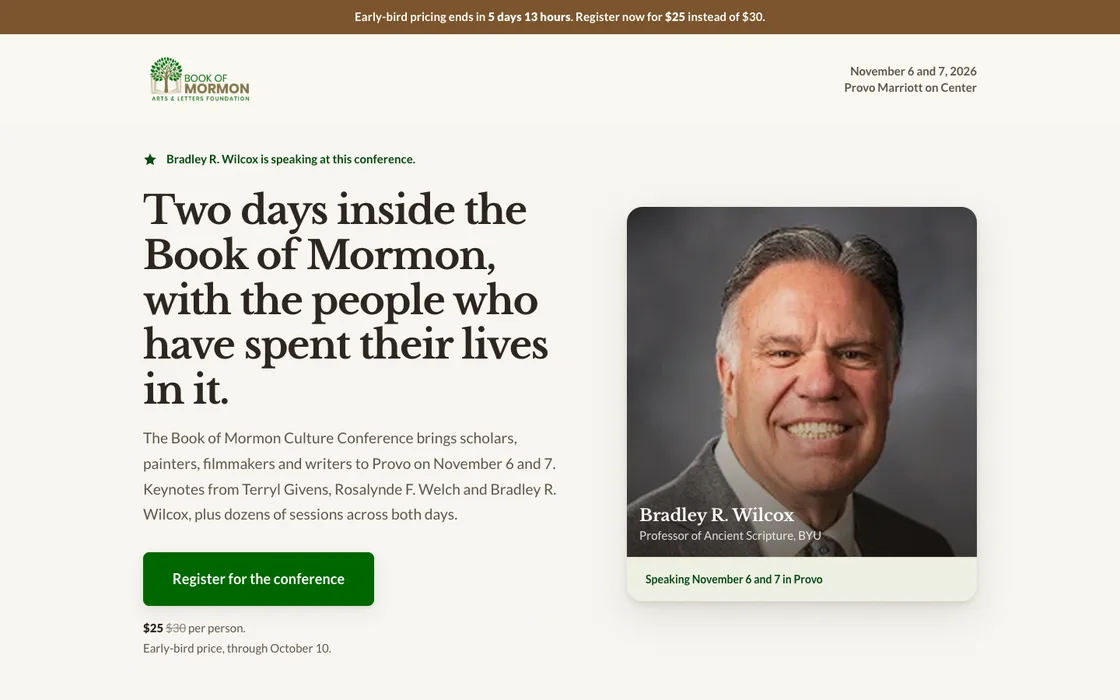
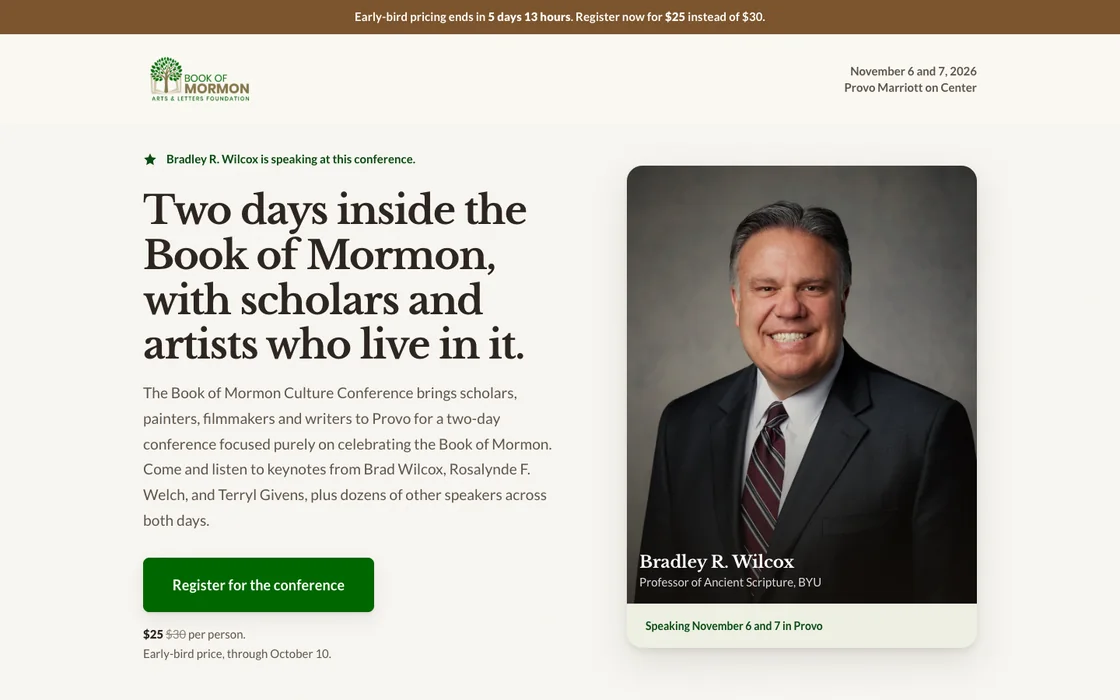
Brian's copy pass on page A, plus the real Wilcox portrait
New headline and intro, and the three objection blocks rewritten: PhD not
required, two whole days for thirty dollars, bring your friends and family.
The group discount now carries that third block in place of the refund terms.

Swaps the 400px headshot pulled from bomal.org for the supplied 1638x2048
portrait, resized to 1000px webp. The hero cards move to 4:5 to suit it, and
page B uses the same photo so one person does not appear in two different
pictures across the pair.

Changed region(s): [[0.5312, 0.21, 0.875, 0.93], [0.125, 0.39, 0.5, 0.75], [0.125, 0.78, 0.3438, 0.96]]

diff --git a/direct.html b/direct.html
@@ -35,7 +35,7 @@
 
   /* Hero portrait card */
   .hero-card{ border-radius:var(--rad-xl); overflow:hidden; box-shadow:var(--sh-3); background:var(--card); }
-  .hero-card .portrait{ aspect-ratio:1/1; }
+  .hero-card .portrait{ aspect-ratio:4/5; }
   .hero-card .portrait-cap h3{ color:#fff; font-size:1.35rem; }
   .hero-card .portrait-cap p{ font-size:.9375rem; color:rgba(255,255,255,.85); margin-top:.15rem; line-height:1.45; }
   .hero-card .speaking{ padding:var(--s3) var(--s4); font-size:.875rem; font-weight:700;
@@ -94,12 +94,13 @@
           <span><span data-sp="name">Your speaker</span> is speaking at this conference.</span>
         </p>
 
-        <h1>Two days inside the Book of Mormon, with the people who have spent their lives in it.</h1>
+        <h1>Two days inside the Book of Mormon, with scholars and artists who live in it.</h1>
 
         <p class="lede measure">
           The Book of Mormon Culture Conference brings scholars, painters, filmmakers and writers
-          to Provo on November 6 and 7. Keynotes from Terryl Givens, Rosalynde F. Welch and
-          Bradley R. Wilcox, plus dozens of sessions across both days.
+          to Provo for a two-day conference focused purely on celebrating the Book of Mormon.
+          Come and listen to keynotes from Brad Wilcox, Rosalynde F. Welch, and Terryl Givens,
+          plus dozens of other speakers across both days.
         </p>
 
         <div class="cta-row">
@@ -115,7 +116,7 @@
 
       <div class="hero-card">
         <div class="portrait">
-          <img data-sp="img" src="brand_assets/speakers/wilcox.webp" alt="Bradley R. Wilcox" width="400" height="400">
+          <img data-sp="img" src="brand_assets/speakers/wilcox-portrait.webp" alt="Bradley R. Wilcox" width="1000" height="1250">
           <div class="portrait-cap">
             <h3 data-sp="name">Bradley R. Wilcox</h3>
             <p data-sp="role">Professor of Ancient Scripture, BYU</p>
@@ -180,16 +181,16 @@
       </div>
       <div class="objections">
       <div class="objection">
-        <h3>You do not need a background in this</h3>
-        <p>Sessions are built for readers, not specialists. Come with the Book of Mormon you already know.</p>
+        <h3>PhD not required</h3>
+        <p>This conference is meant for people who love the Book of Mormon, not people who know every single thing about it. Come with the Book of Mormon you already know and love.</p>
       </div>
       <div class="objection">
-        <h3>Thirty dollars covers both days</h3>
-        <p>One registration, Friday and Saturday, every session. Groups get an automatic ten percent off.</p>
+        <h3>Two whole days. Just thirty dollars.</h3>
+        <p>A spiritual feast from some of the most unique testimonies.</p>
       </div>
       <div class="objection">
-        <h3>Plans change, and that is fine</h3>
-        <p>Cancel through October 15 for a refund less a five percent processing fee. After that, eighty percent back.</p>
+        <h3>Bring your friends and family!</h3>
+        <p>Register as a group and get an automatic ten percent off.</p>
       </div>
       </div>
     </div>

diff --git a/authority.html b/authority.html
@@ -29,7 +29,7 @@
     background:rgba(125,151,94,.14); border-radius:999px; padding:.45rem 1rem; }
 
   .hero-card{ border-radius:var(--rad-xl); overflow:hidden; box-shadow:var(--sh-3); background:var(--card); }
-  .hero-card .portrait{ aspect-ratio:1/1; }
+  .hero-card .portrait{ aspect-ratio:4/5; }
   .hero-card .portrait-cap h3{ color:#fff; font-size:1.45rem; }
   .hero-card .portrait-cap p{ font-size:.9375rem; color:rgba(255,255,255,.85); margin-top:.15rem; line-height:1.45; }
   .hero-card .speaking{ padding:var(--s3) var(--s4); font-size:.875rem; font-weight:700;
@@ -107,7 +107,7 @@
 
       <div class="hero-card">
         <div class="portrait">
-          <img data-sp="img" src="brand_assets/speakers/wilcox.webp" alt="Bradley R. Wilcox" width="400" height="400">
+          <img data-sp="img" src="brand_assets/speakers/wilcox-portrait.webp" alt="Bradley R. Wilcox" width="1000" height="1250">
           <div class="portrait-cap">
             <h3 data-sp="name">Bradley R. Wilcox</h3>
             <p data-sp="role">Professor of Ancient Scripture, BYU</p>
@@ -141,7 +141,7 @@
         </figure>
         <figure>
           <div class="portrait">
-            <img src="brand_assets/speakers/wilcox.webp" alt="Bradley R. Wilcox" width="400" height="400">
+            <img src="brand_assets/speakers/wilcox-portrait.webp" alt="Bradley R. Wilcox" width="1000" height="1250">
             <div class="portrait-cap"><h3>Bradley R. Wilcox</h3><p>Professor of Ancient Scripture, BYU</p></div>
           </div>
           <p class="tagline">Keynote speaker across the two days in Provo.</p>

diff --git a/assets/lp.js b/assets/lp.js
@@ -21,7 +21,7 @@ var REGISTER_URL = 'https://register.bomal.org/';
 var SPEAKERS = {
   givens:  { name: 'Terryl Givens',       role: 'Senior Research Fellow, Neal A. Maxwell Institute', img: 'givens.webp',  quote: '' },
   welch:   { name: 'Rosalynde F. Welch',  role: 'Associate Director, Neal A. Maxwell Institute',     img: 'welch.webp',   quote: '' },
-  wilcox:  { name: 'Bradley R. Wilcox',   role: 'Professor of Ancient Scripture, BYU',               img: 'wilcox.webp',  quote: '' },
+  wilcox:  { name: 'Bradley R. Wilcox',   role: 'Professor of Ancient Scripture, BYU',               img: 'wilcox-portrait.webp', quote: '' },
   rane:    { name: 'Walter Rane',         role: 'Painter, honored Saturday afternoon',               img: 'rane.webp',    quote: '' },
   pelo:    { name: 'Brad Pelo',           role: 'President, The Chosen',                             img: 'pelo.webp',    quote: '' },
   johnson: { name: 'Jane Clayson Johnson',role: 'Journalist and author',                             img: 'johnson.webp', quote: '' }
